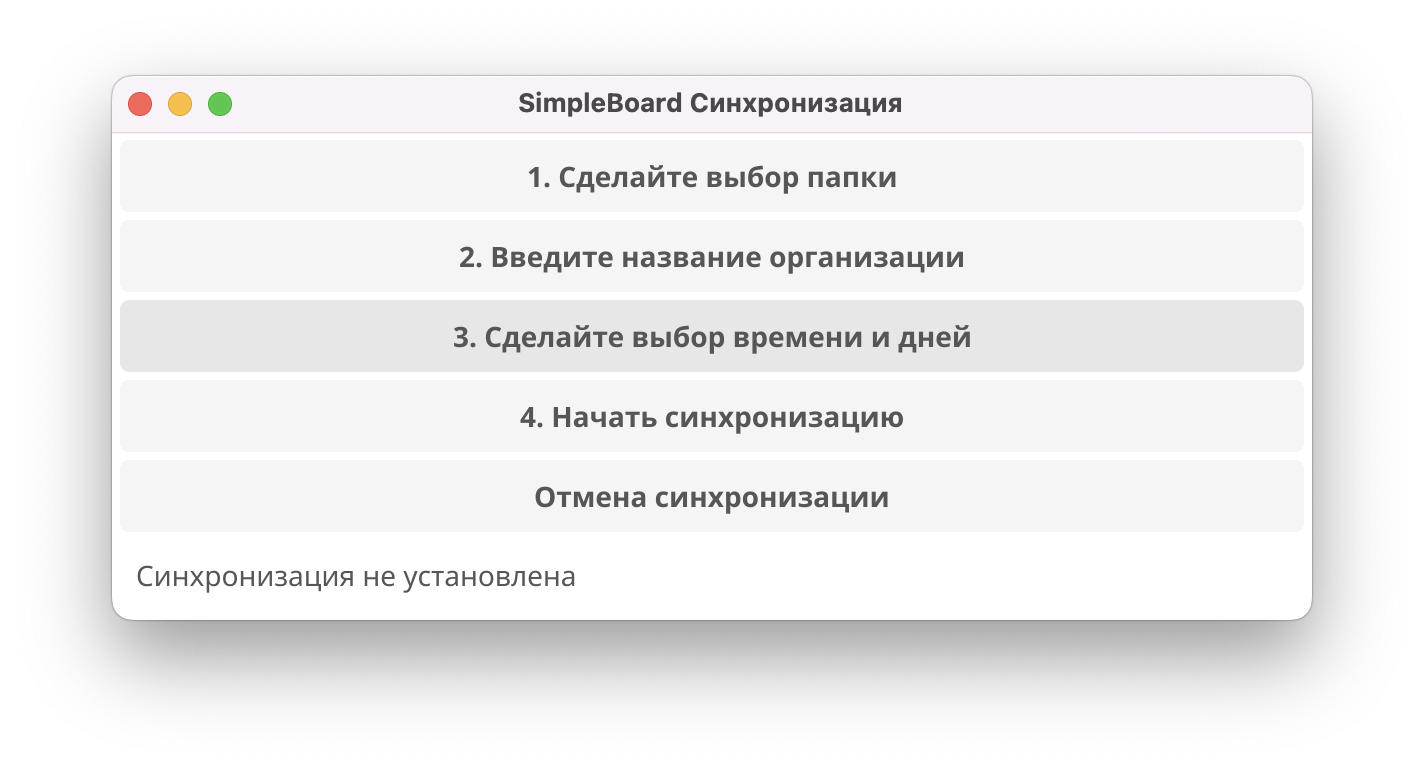
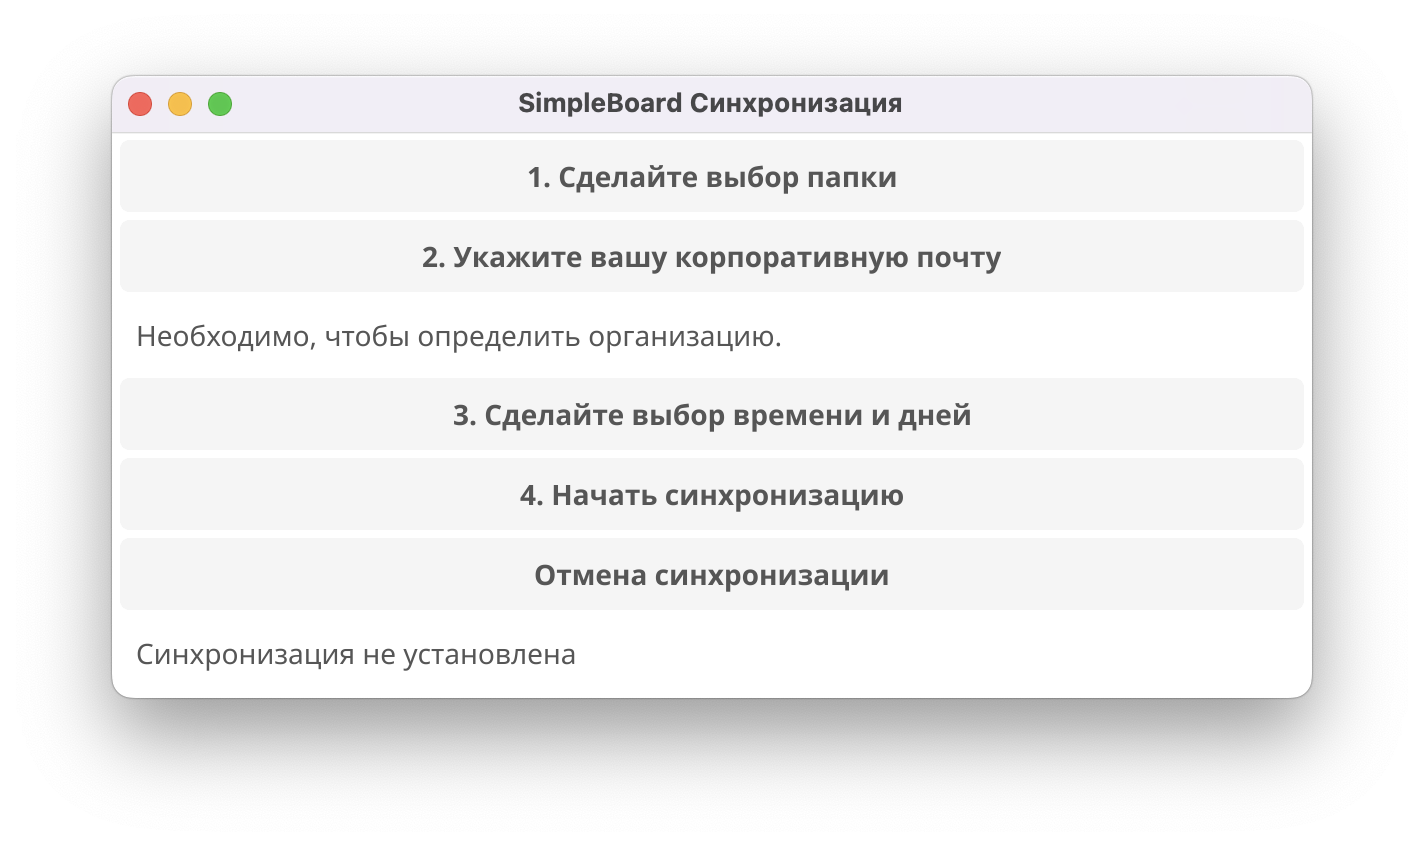
offline retries for Mac

diff --git a/simple_main/main.go b/simple_main/main.go
@@ -17,6 +17,7 @@ import (
 
 var (
 	selectedDir       string
+	emailHint         *widget.Label
 	statusText        *widget.Label
 	selectedDays      []string
 	selectedTime      string
@@ -38,9 +39,10 @@ func main() {
 		}, myWindow)
 	})
 
-	organizationButton := widget.NewButton("2. Введите название организации", func() {
+	organizationButton := widget.NewButton("2. Укажите вашу корпоративную почту", func() {
 		openOrganizationWindow(myApp)
 	})
+	emailHint = widget.NewLabel("Необходимо, чтобы определить организацию.")
 
 	dateTimeButton := widget.NewButton("3. Сделайте выбор времени и дней", func() {
 		openDateTimeWindow(myApp)
@@ -73,6 +75,7 @@ func main() {
 	myWindow.SetContent(container.NewVBox(
 		dirButton,
 		organizationButton,
+		emailHint,
 		dateTimeButton,
 		startDaemonButton,
 		stopDaemonButton,
@@ -83,18 +86,19 @@ func main() {
 }
 
 func openOrganizationWindow(app fyne.App) {
-	organizationWindow := app.NewWindow("Введите название организации")
+	organizationWindow := app.NewWindow("Укажите вашу корпоративную почту")
 
 	organizationEntry = widget.NewEntry()
-	organizationEntry.SetPlaceHolder("Введите название организации")
+	organizationEntry.SetPlaceHolder("Укажите вашу корпоративную почту")
 
 	setButton := widget.NewButton("Установить", func() {
 		organization = organizationEntry.Text
 		if organization == "" {
-			dialog.ShowInformation("Ошибка", "Пожалуйста введите название организации", organizationWindow)
+			dialog.ShowInformation("Ошибка", "Пожалуйста укажите вашу корпоративную почту", organizationWindow)
 			return
 		}
-		statusText.SetText(fmt.Sprintf("Организация: %s", organization))
+		domain := extractDomain(organization)
+		statusText.SetText(fmt.Sprintf("Организация: %s", domain))
 		organizationWindow.Close()
 	})
 
@@ -193,19 +197,22 @@ func setupMacOSLaunchAgent() {
 	hour := timeParts[0]
 	minute := timeParts[1]
 
+	syncTaskPath := filepath.Join(selectedDir, "sync_task")
 	plistContent := fmt.Sprintf(`<?xml version="1.0" encoding="UTF-8"?>
-<!DOCTYPE plist PUBLIC "-//Apple//DTD PLIST 1.0//EN" "http://www.apple.com/DTDs/PropertyList-1.0.dtd">
-<plist version="1.0">
-<dict>
+	<!DOCTYPE plist PUBLIC "-//Apple//DTD PLIST 1.0//EN" "http://www.apple.com/DTDs/PropertyList-1.0.dtd">
+	<plist version="1.0">
+	<dict>
     <key>Label</key>
     <string>com.simpleboard.emailscheduler</string>
     <key>ProgramArguments</key>
     <array>
         <string>%s</string>
         <string>%s</string>
+        <string>%s</string>
     </array>
     <key>StartCalendarInterval</key>
-    <array>`, filepath.Join(selectedDir, "sync_task"), organization)
+    <array>`, syncTaskPath, selectedDir, organization)
+
 	for _, day := range selectedDays {
 		plistContent += fmt.Sprintf(`
         <dict>
@@ -219,10 +226,10 @@ func setupMacOSLaunchAgent() {
 	}
 	plistContent += `
     </array>
-	<key>StartInterval</key>
-	<integer>900</integer>
-</dict>
-</plist>`
+	<key>WakeForEvent</key>
+    <true/>
+	</dict>
+	</plist>`
 
 	err := os.WriteFile(plistPath, []byte(plistContent), 0644)
 	if err != nil {
@@ -242,19 +249,27 @@ func setupMacOSLaunchAgent() {
 func mapDayToInteger(day string) int {
 	switch day {
 	case "Понедельник":
-		return 2
-	case "Вторник":
-		return 3
-	case "Среда":
-		return 4
-	case "Четверг":
-		return 5
-	case "Пятница":
-		return 6
-	case "Суббота":
-		return 7
-	case "Воскресение":
 		return 1
+	case "Вторник":
+		return 2
+	case "Среда":
+		return 3
+	case "Четверг":
+		return 4
+	case "Пятница":
+		return 5
+	case "Суббота":
+		return 6
+	case "Воскресение":
+		return 7
 	}
 	return 0
+}
+
+func extractDomain(email string) string {
+	parts := strings.Split(email, "@")
+	if len(parts) > 1 {
+		return parts[1]
+	}
+	return ""
 }

diff --git a/sync_task/sync_task.go b/sync_task/sync_task.go
@@ -3,9 +3,11 @@ package main
 import (
 	"encoding/base64"
 	"fmt"
+	"net/http"
 	"net/smtp"
 	"os"
 	"path/filepath"
+	"time"
 )
 
 func main() {
@@ -39,7 +41,7 @@ func sendEmail(filePath, organization string) {
 	from := "FROM"
 	to := "TO"
 	subject := organization
-	body := "Please find attached the daily report from."
+	body := "Please find attached the daily report."
 
 	message := fmt.Sprintf("From: %s\r\n", from)
 	message += fmt.Sprintf("To: %s\r\n", to)
@@ -78,14 +80,27 @@ func sendEmail(filePath, organization string) {
 	smtpPort := "smtpPort"
 	auth := smtp.PlainAuth("", from, "PASSWORD", smtpHost)
 
-	err = smtp.SendMail(smtpHost+":"+smtpPort, auth, from, []string{to}, []byte(message))
-	if err != nil {
-		fmt.Println("Error sending email:", err)
-	} else {
-		fmt.Println("Email sent successfully!")
+	for {
+		if checkInternetConnection() {
+			err = smtp.SendMail(smtpHost+":"+smtpPort, auth, from, []string{to}, []byte(message))
+			if err != nil {
+				fmt.Println("Error sending email:", err)
+			} else {
+				fmt.Println("Email sent successfully!")
+			}
+			break
+		} else {
+			fmt.Println("No internet connection. Retrying in 5 minutes...")
+			time.Sleep(5 * time.Minute)
+		}
 	}
 }
 
 func encodeBase64(data []byte) string {
 	return base64.StdEncoding.EncodeToString(data)
+}
+
+func checkInternetConnection() bool {
+	_, err := http.Get("http://www.google.com")
+	return err == nil
 }

diff --git a/Readme.md b/Readme.md
@@ -28,7 +28,7 @@ go install github.com/fyne-io/fyne-cross@latest
 Поместите файл Icon.png в корневой каталог вашего проекта.
 
 
-# Сборка для Windows
+# Сборка simple_main для Windows
 1. Перейдите в каталог проекта: Убедитесь, что вы находитесь в каталоге simple_main, где расположен ваш файл main.go.
 
 2. Выполните команду fyne-cross для сборки для Windows:
@@ -43,7 +43,7 @@ fyne-cross/bin/windows-amd64/simple_main.exe
 ```bash
 simple_main.exe.
 ```
-# Сборка для macOS
+# Сборка simple_main для macOS
 1. Перейдите в каталог проекта: Убедитесь, что вы находитесь в каталоге simple_main, где расположен ваш файл main.go.
 
 2. Выполните команду fyne-cross для сборки для macOS:
@@ -59,4 +59,12 @@ fyne-cross/bin/darwin-arm64/simple_main.app
 fyne-cross/dist/darwin-arm64/simple_main.zip
 ```
 
- # P.S. при возникновении проблем или потребности в доработке обращайтесь к GPT. 
+# Сборка simple_sync для macOS
+1. Перейдите в каталог проекта: Убедитесь, что вы находитесь в каталоге sync_task, где расположен ваш файл sync_task.go.
+2. Выполните команду для сборки executable для macOS:
+```bash
+go build -o sync_task  
+```
+3. Разместите sync_task в папке, где нужна синхронизация.
+
+ #### P.S. при возникновении проблем или потребности в доработке обращайтесь к GPT. 
